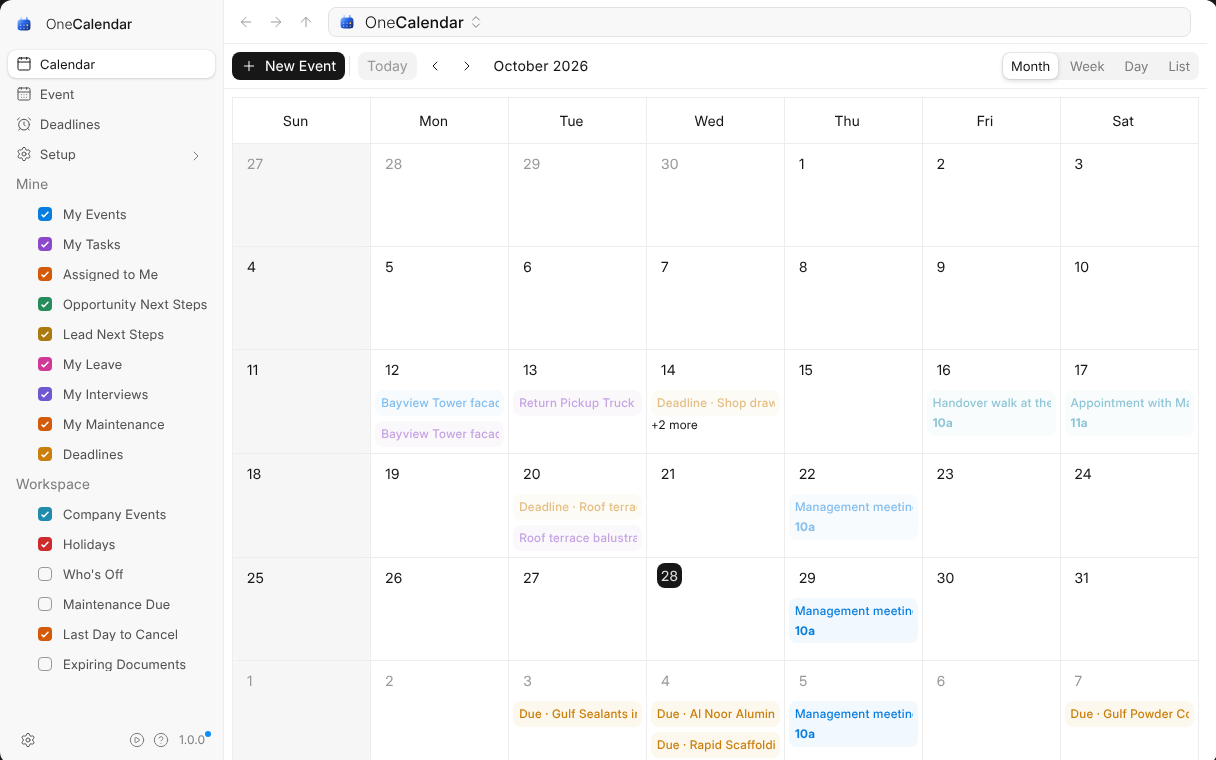
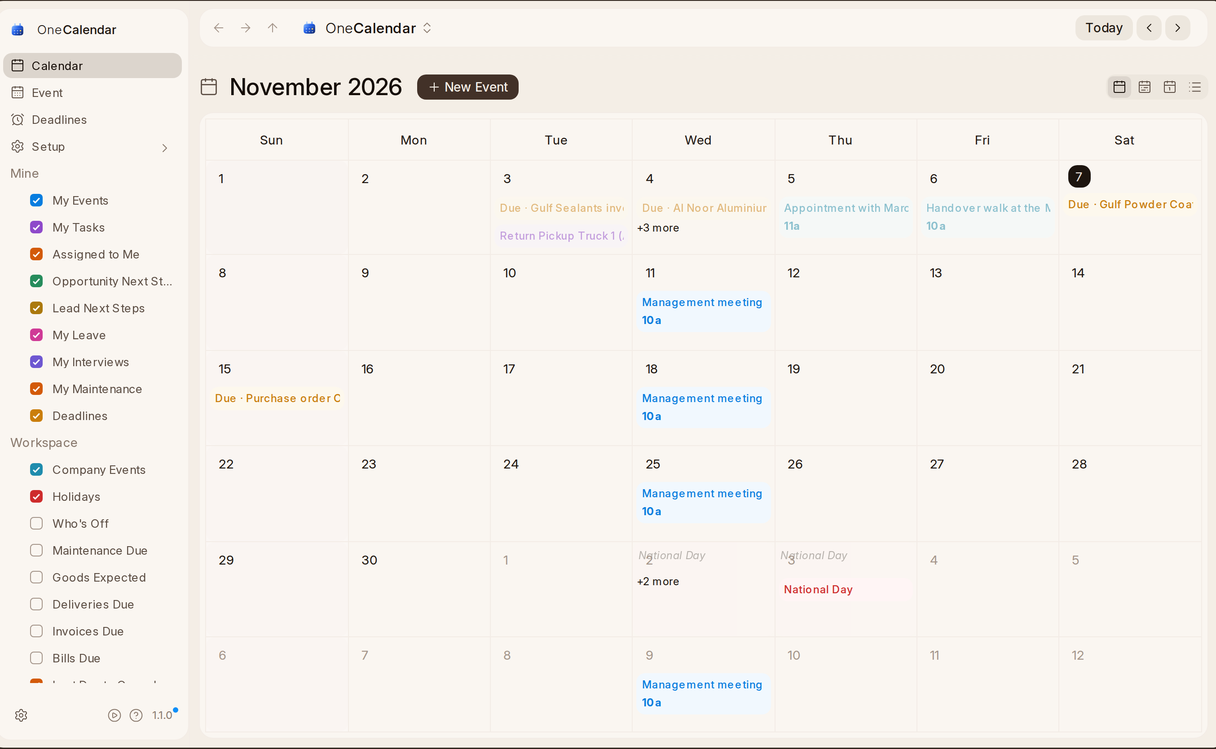
OneCalendar on a list's own head; the window's head serves a page as well as an island
Scope: OneCalendar's page at 1440 and 390, light; standard: what OneMail
and OneCloud settled (the window's head, the list's card, the address row
joined).

Found and fixed:
- The view switch was broken on both: frappe's TabButtons with words in
  the view row, which the window draws as a list's icon toggles, so
  Month, Week, Day and List printed over each other.
- No heading: the days shown head the page through the window
  (onedesk.interface.heading, called from desk JS as an island calls it
  through the kit), with New Event beside them and the four views at the
  far end as icons (calendar, calendar-range, calendar-1, list), named on
  hover; the heading's name opens the date picker, as the old date button
  did ("Go to Date", in Arabic and German).
- Today and the arrows were a row of their own: they are the page's
  commands, joined to the end of the address row as a record's ‹ › are.
- The grid sat on the canvas: it is in the island's card (onecalendar.css,
  tokens only).
- On a phone the views went with a list's (a list has its views menu
  there): a heading of the window's keeps its own, wrapping under the name.
- The window's head finds its place on a page without an island (the
  page's first child), and the body under it takes the rest of the height
  (frame.css for an island, shell.css for a shell page, as test_shell
  asks). The heading's views carry data-tour="interface-ways", which the
  tour's views step now points at.
[…]

diff --git a/onedesk/one_calendar/page/onecalendar/onecalendar.js b/onedesk/one_calendar/page/onecalendar/onecalendar.js
@@ -13,12 +13,12 @@ frappe.provide("onedesk");
 onedesk.OneCalendar = class OneCalendar {
 	// The rail stays OneCalendar's: Calendar, Event, Deadlines and Setup are
 	// its rows, and the layers are a section of the nav pane under them
-	// (window.tree). New Event is the page's primary action, and moving
-	// through the days, Today and the views are the window's command row.
+	// (window.tree). The days shown head the page with New Event beside them
+	// and the views at the far end (look.js heading); Today and moving
+	// through the days join the address row.
 	constructor(page) {
 		this.page = page;
 		this.about = this.narrowed();
-		page.set_primary_action(__("New Event"), () => this.new_event(), "plus");
 		this.$grid = $(`<div class="one-calendar one-calendar-grid" data-tour="onecalendar-grid"></div>`).appendTo(page.$shell);
 		onedesk.shell.fit(this.$grid);
 		frappe.require("calendar.bundle.js", () => this.start());
@@ -111,7 +111,7 @@ onedesk.OneCalendar = class OneCalendar {
 				}
 			},
 			datesSet: (info) => {
-				this.$title.find(".es-button__label").text(info.view.title);
+				this.head(info.view.title, info.view.type);
 				const now = new Date();
 				this.$today.prop("disabled", info.view.activeStart <= now && now < info.view.activeEnd);
 				if (this.drawn && this.saved.view !== info.view.type) {
@@ -151,31 +151,34 @@ onedesk.OneCalendar = class OneCalendar {
 	}
 
 	draw_toolbar() {
-		this.$title = frappe.ui.button({ label: __("Calendar"), variant: "ghost", css_class: "text-lg-medium text-ink-gray-7" });
-		this.jumper = new frappe.ui.Popover({
-			trigger: this.$title,
-			content: () => this.date_jumper(),
-			css_class: "calendar-date-jumper",
-		});
-		this.views = new frappe.ui.TabButtons({
-			label: __("Calendar View"),
-			options: [
-				{ label: __("Month"), value: "dayGridMonth" },
-				{ label: __("Week"), value: "timeGridWeek" },
-				{ label: __("Day"), value: "timeGridDay" },
-				{ label: __("List"), value: "listWeek" },
-			],
-			value: this.first_view,
-			on_change: (view) => this.calendar.changeView(view),
-		});
 		this.$today = frappe.ui.button({ label: __("Today"), onclick: () => this.calendar.today() });
 		const moves = $(`<span class="one-calendar-moves" data-tour="onecalendar-moves"></span>`).append(
 			this.$today,
 			frappe.ui.button({ icon: "chevron-left", variant: "ghost", title: __("Previous"), onclick: () => this.calendar.prev() }),
-			frappe.ui.button({ icon: "chevron-right", variant: "ghost", title: __("Next"), onclick: () => this.calendar.next() }),
-			this.$title
+			frappe.ui.button({ icon: "chevron-right", variant: "ghost", title: __("Next"), onclick: () => this.calendar.next() })
 		);
-		this.page.interface.view({ commands: moves, views: $(`<span data-tour="onecalendar-views"></span>`).append(this.views.$el) });
+		this.page.interface.view({ commands: moves });
+		this.head(__("Calendar"), this.first_view);
+	}
+
+	head(title, view) {
+		onedesk.interface.heading(this.page.interface, {
+			title,
+			icon: "calendar",
+			primary: { label: __("New Event"), click: () => this.new_event() },
+			ways: [
+				{ value: "dayGridMonth", icon: "calendar", label: __("Month") },
+				{ value: "timeGridWeek", icon: "calendar-range", label: __("Week") },
+				{ value: "timeGridDay", icon: "calendar-1", label: __("Day") },
+				{ value: "listWeek", icon: "list", label: __("List") },
+			],
+			ways_label: __("Calendar View"),
+			way: view,
+			pick_way: (one) => this.calendar.changeView(one),
+		});
+		const $name = $(this.page.main).find(".one-hero-island h1").first();
+		$name.attr({ role: "button", tabindex: 0, title: __("Go to Date") }).addClass("one-calendar-jump");
+		this.jumper = new frappe.ui.Popover({ trigger: $name, content: () => this.date_jumper(), css_class: "calendar-date-jumper" });
 	}
 
 	date_jumper() {

diff --git a/onedesk/public/css/one_interface/canvas.css b/onedesk/public/css/one_interface/canvas.css
@@ -698,6 +698,8 @@
 	:root[data-one-look="canvas"] .one-hero-list .one-hero-title h1 { flex: 0 1 auto; min-width: 0; overflow: hidden; text-overflow: ellipsis; white-space: nowrap; font-size: 22px; }
 	:root[data-one-look="canvas"] .one-hero-list .one-hero-title > .one-interface-group { flex: none; }
 	:root[data-one-look="canvas"] .one-hero-list > .one-interface-ways > .es-tab-buttons { display: none; }
+	:root[data-one-look="canvas"] .one-hero-island > .one-interface-ways > .es-tab-buttons { display: flex; }
+	:root[data-one-look="canvas"] .one-interface .one-hero-island { flex-wrap: wrap; row-gap: 8px; }
 	:root[data-one-look="canvas"] .one-hero-list > .one-interface-ways .view-switcher .es-button { background: var(--one-head-button-bg) !important; color: var(--one-button-ink) !important; }
 	/* what narrows the view is its own row under the address; its fields keep at least one readable, and Filter
 	   and Sort go under them before squeezing them */

diff --git a/onedesk/public/js/one_interface/look.js b/onedesk/public/js/one_interface/look.js
@@ -718,7 +718,7 @@ onedesk.interface.heading = (win, spec) => {
 	if (!main) return;
 	main.querySelectorAll(":scope > .one-hero-island, :scope > .one-strip-island").forEach((one) => one.remove());
 	if (!spec) return;
-	const island = main.querySelector(":scope > .one-island");
+	const island = main.querySelector(":scope > .one-island") || main.firstElementChild;
 	const hero = document.createElement("div");
 	hero.className = "one-hero one-hero-list one-hero-island";
 	hero.innerHTML = `<div class="one-hero-title"><span class="one-hero-icon"${spec.icon ? "" : " hidden"}></span><h1></h1></div>`;
@@ -738,6 +738,7 @@ onedesk.interface.heading = (win, spec) => {
 	if (spec.ways && spec.ways.length) {
 		const ways = document.createElement("span");
 		ways.className = "one-interface-ways";
+		ways.dataset.tour = "interface-ways";
 		$(ways).append(
 			frappe.ui.tab_buttons({
 				type: "ghost",

diff --git a/onedesk/one_calendar/page/onecalendar/onecalendar.css b/onedesk/one_calendar/page/onecalendar/onecalendar.css
@@ -1,7 +1,16 @@
 .one-calendar-grid {
 	flex: 1;
 	min-height: 520px;
-	padding: calc(var(--spacing) * 2) calc(var(--spacing) * 2) 0;
+	margin: 0 var(--one-inset) var(--one-inset);
+	padding: calc(var(--spacing) * 1.5);
+	overflow: hidden;
+	border: 1px solid var(--one-line);
+	border-radius: var(--one-radius-sheet);
+	background: var(--one-card-bg);
+}
+
+.one-calendar-jump {
+	cursor: pointer;
 }
 
 .one-calendar-moves {

diff --git a/onedesk/public/css/shell.css b/onedesk/public/css/shell.css
@@ -619,6 +619,12 @@ a.one-shell-row:hover {
 }
 
 /* In a fitted window (onedesk/one_interface/AGENTS.md) a page's shell is the screen's height. */
+.one-interface-fit :has(> .one-hero-island) > .one-shell {
+	flex: 1 1 0;
+	min-height: 0;
+	height: auto;
+}
+
 .one-interface-fit .one-shell {
 	padding: 0;
 	display: flex;

diff --git a/onedesk/public/css/one_interface/frame.css b/onedesk/public/css/one_interface/frame.css
@@ -243,6 +243,7 @@
 
 	.one-interface-fit :has(> .one-hero-island) > .one-island {
 		flex: 1 1 0;
+		min-height: 0;
 		height: auto;
 	}
 

diff --git a/onedesk/one_calendar/tour.py b/onedesk/one_calendar/tour.py
@@ -19,7 +19,7 @@ CALENDAR = [
 		"text": _lt("Go back or ahead with the arrows, come back with Today, or pick a date from the title."),
 	},
 	{
-		"target": "onecalendar-views",
+		"target": "interface-ways",
 		"side": "bottom",
 		"title": _lt("Month, Week or Day"),
 		"text": _lt("Choose how much you see, and the calendar opens on that view next time."),

diff --git a/onedesk/one_calendar/docs/overview.md b/onedesk/one_calendar/docs/overview.md
@@ -13,7 +13,7 @@ moves when the deal changes.
 | You see | What it is |
 | --- | --- |
 | **The rail**, on the left | **Calendar**, **Event** (every event as a list), **Deadlines**, and **Setup** for those with access. Under them, your calendars, in **Mine** and **Workspace**. See [Your Calendars](calendars). |
-| **The buttons**, over the calendar | **New Event**, then **Today**, the arrows and the date, which opens a picker. **Month**, **Week**, **Day** and **List** are at the right. |
+| **The heading**, over the calendar | The days shown, which open a picker to go to a date, with **New Event** beside them. **Month**, **Week**, **Day** and **List** are at the right. **Today** and the arrows are at the end of the address row. |
 | **The calendar** | Your events and everything else dated, in each calendar's colour. The workspace's weekly days off are lightly shaded, and holidays show in red with their names. |
 | **The foot** | **Settings**, the play button that takes the tour, the question mark that opens this Help, and OneCalendar's version, which opens What's New. |
 

diff --git a/onedesk/one_interface/docs/changelog/1.11.0.md b/onedesk/one_interface/docs/changelog/1.11.0.md
@@ -2,7 +2,7 @@
 date: 2026-11-07
 kind: minor
 title: A record's links open it
-fingerprint: 05b48752c186
+fingerprint: 3964cd14f8b8
 legal: 
 ---
 
@@ -22,3 +22,5 @@ Backspace and Delete work again in a screen's own search box, such as OneMail's.
 **Back** in the browser returns to the app you came from with that app's own menu, instead of showing its page inside the menu of the app you were in.
 
 OneCloud wears a list's head: the folder's name with **New** beside it and the views at the far end, the files in a card, and what you can do with the chosen files in place of the column headings.
+
+OneCalendar, too, wears a list's head, and on a phone a page's own views stay beside its heading.

diff --git a/docs/BACKLOG.md b/docs/BACKLOG.md
@@ -375,6 +375,11 @@ Checked against `onedesk/one_intake/` on 2026-10-18. The design is
   goes in the step of the person whose work it is, with the next demo
   rebuild.
 
+- **OneCloud inside something else** (a record's files, the picker) still
+  draws its own bar, frappe-ui's white view toggle and a filled preview;
+  on its page it wears the list's head and card since 8 November 2026. Give
+  the dialog the same card, band and outlined preview.
+
 ## Upstream's, not ours
 
 Reported or to report; nothing here is patched in One.

diff --git a/onedesk/one_calendar/docs/changelog/1.1.0.md b/onedesk/one_calendar/docs/changelog/1.1.0.md
@@ -1,0 +1,11 @@
+---
+date: 2026-11-07
+kind: minor
+title: A clearer calendar heading
+fingerprint: 1b5a0cd3e70e
+docs: overview
+legal: privacy ae3c7b98, ai f1e2b46f
+---
+
+OneCalendar opens like every list in One: the days shown head the page, with **New Event** beside them and **Month**, **Week**, **Day** and **List** at the right, now readable on a phone too. Click the days to go to a date. **Today** and the arrows sit at the end of the address row, and the calendar is in a card.
+

diff --git a/docs/REGISTRY.md b/docs/REGISTRY.md
@@ -90,7 +90,7 @@ What a person looks at:
 - **OneInterface pass**: each screen, as each role, on a desktop and a phone: tokens only, frappe's controls, live where data changes, and the reader's formats.
 - **Legal**: what it does with data, read against what its clauses, subprocessors and optional services say.
 
-## OneCalendar 1.0.2
+## OneCalendar 1.1.0
 
 Ready.
 
